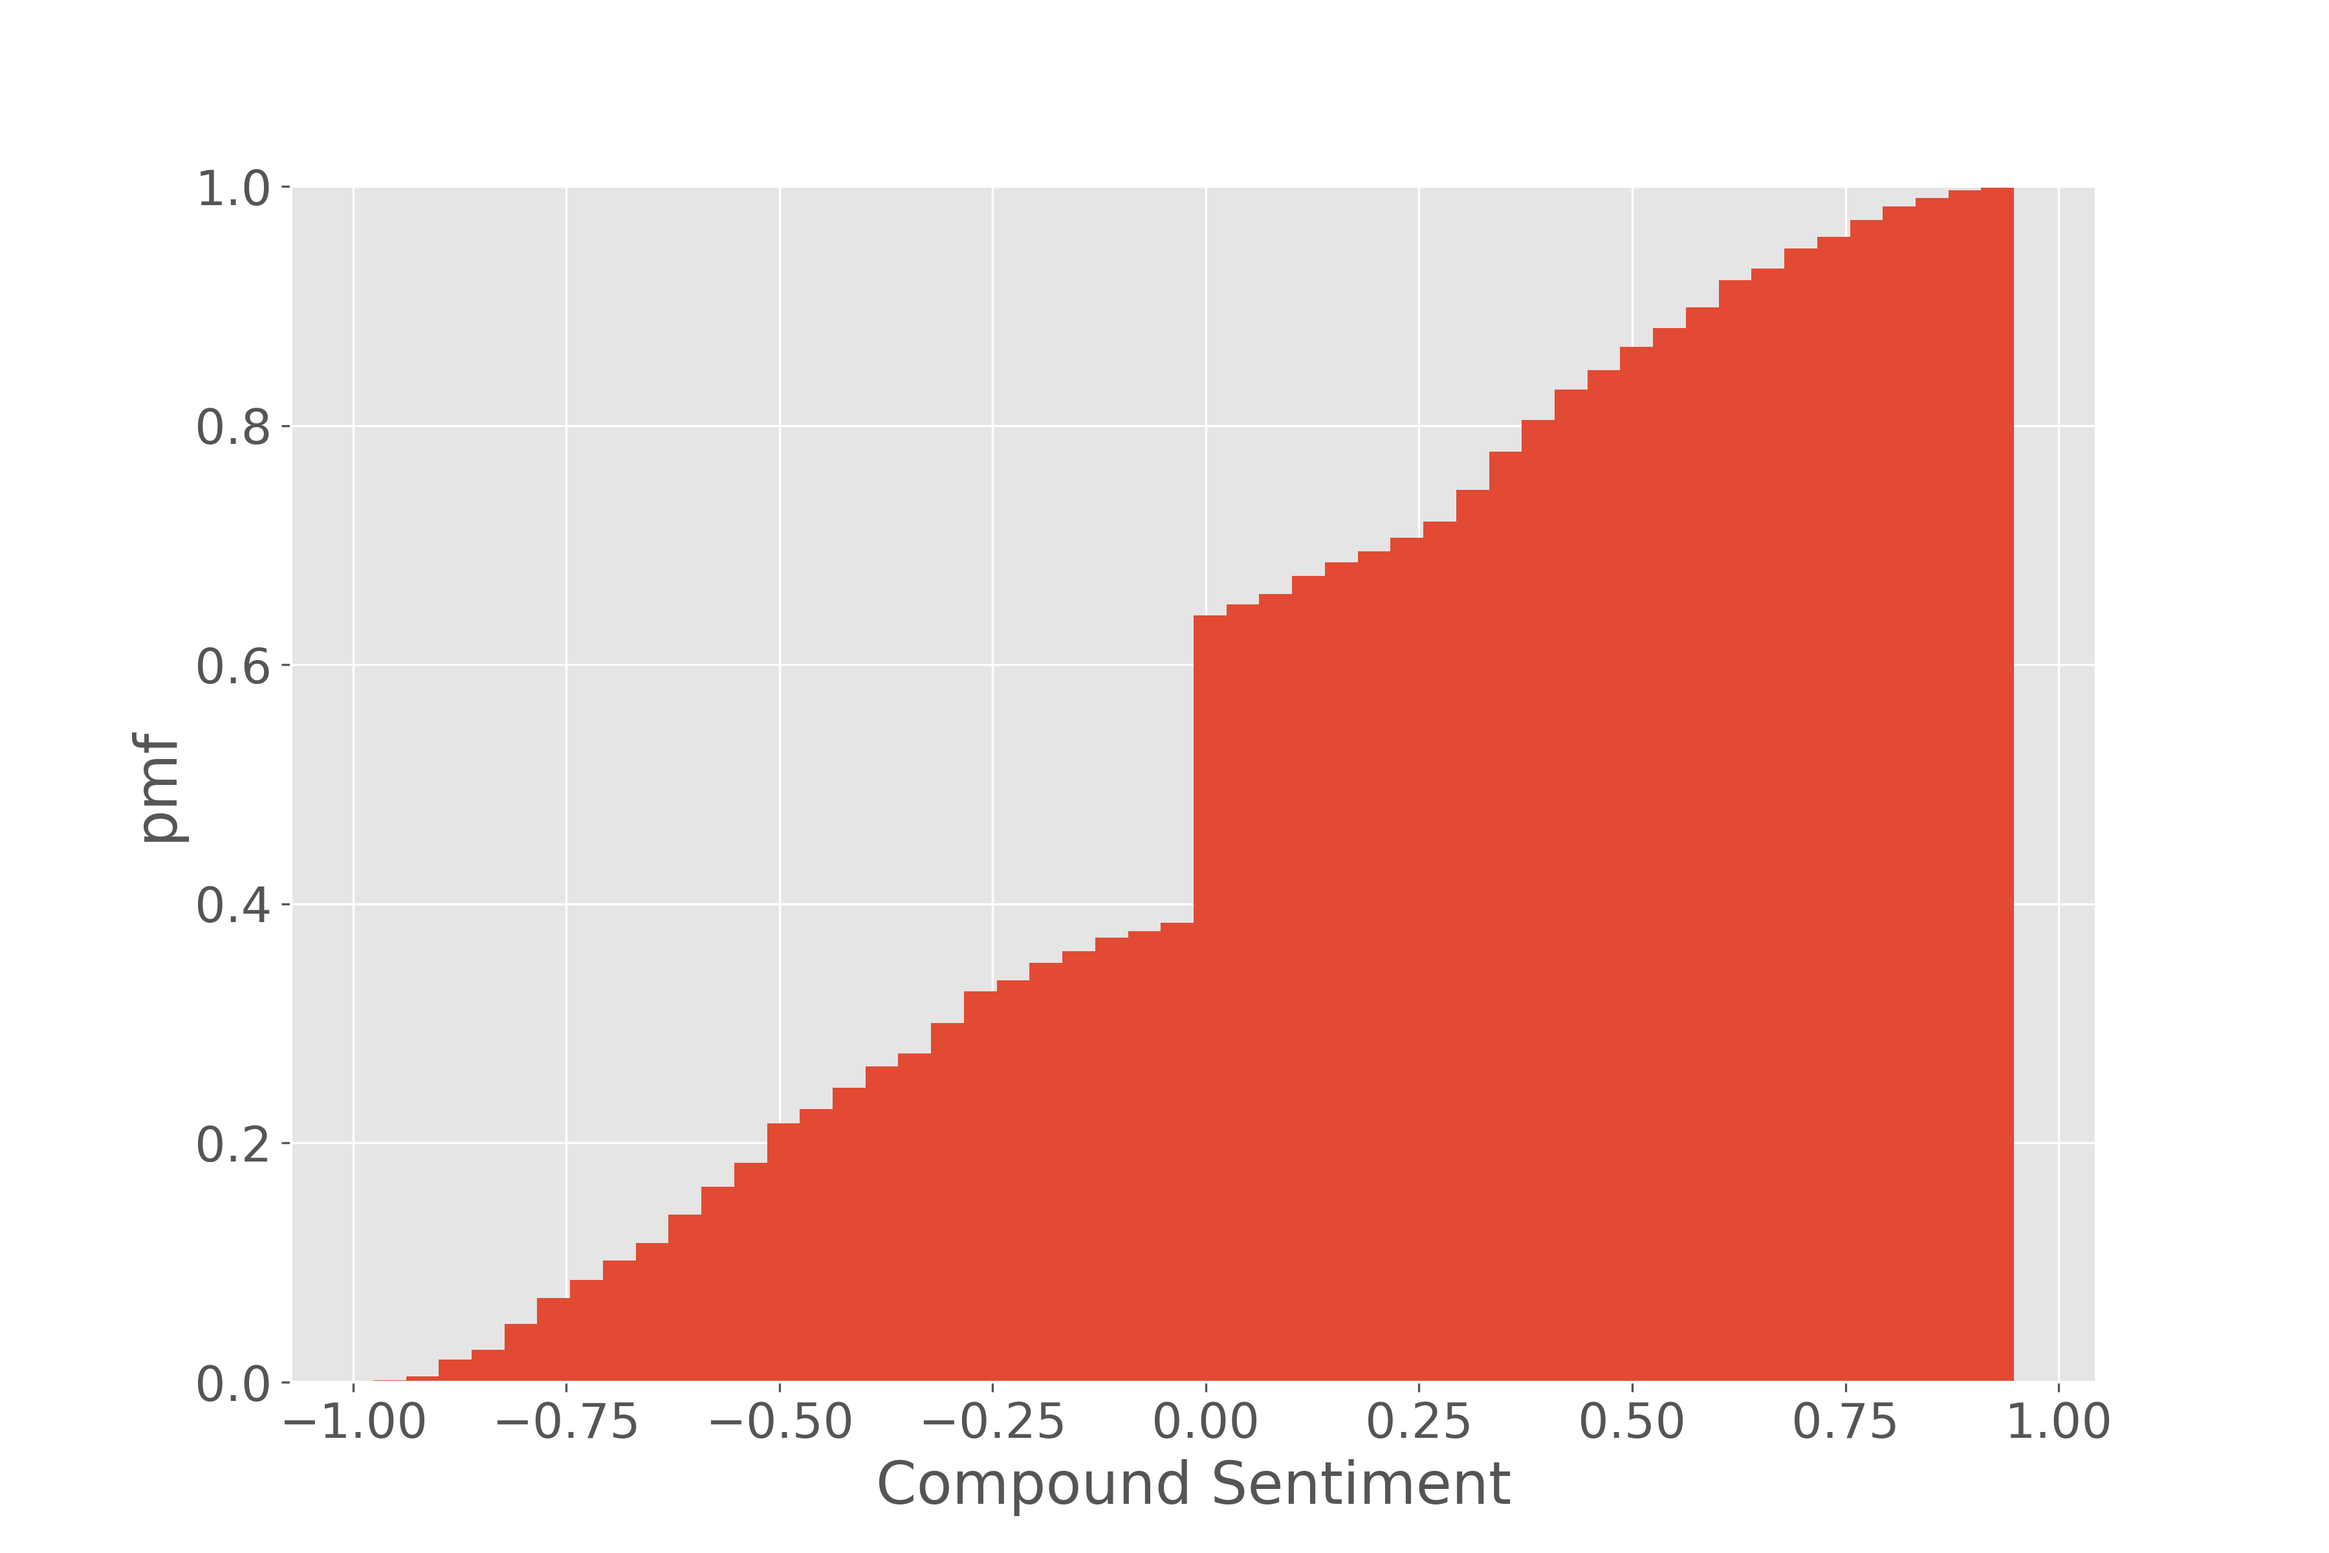
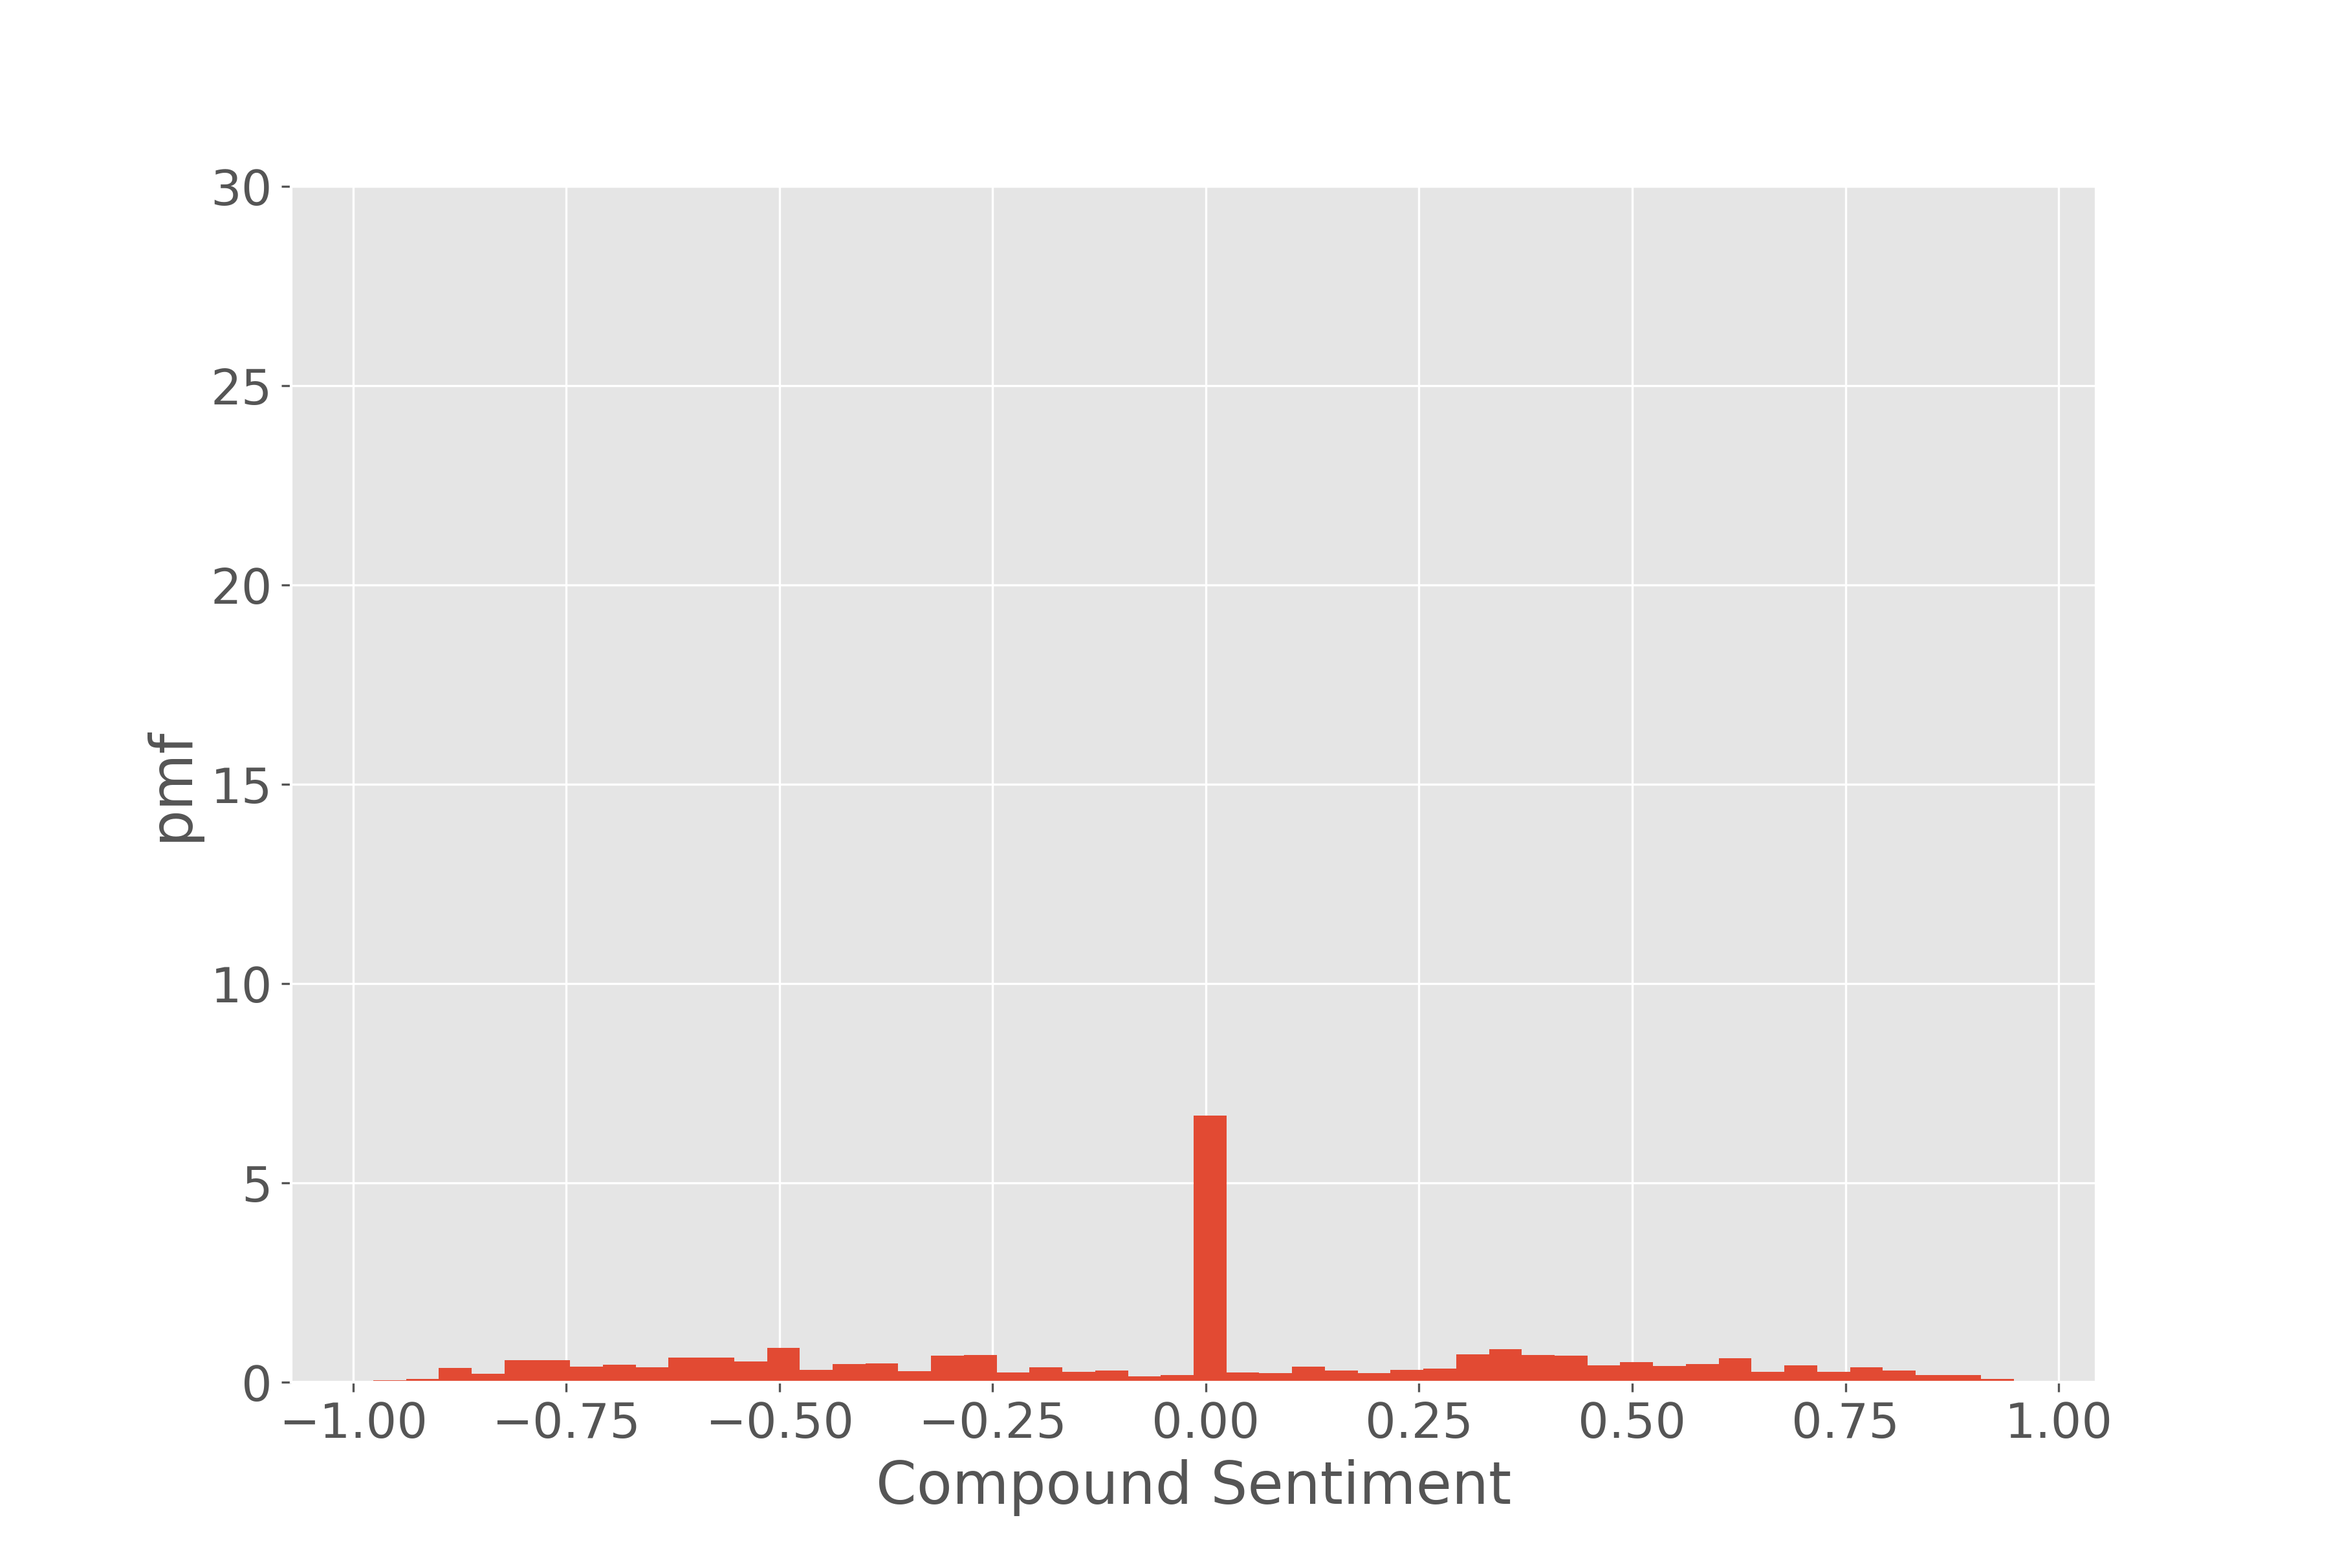
lots of pics

diff --git a/src/co_data.py b/src/co_data.py
@@ -3,6 +3,8 @@ import numpy as np
 import os
 import re
 import matplotlib.pyplot as plt
+plt.style.use('ggplot')
+plt.rcParams.update({'font.size': 18})
 from wordcloud import WordCloud
 from sklearn.feature_extraction.text import CountVectorizer
 from sklearn.feature_extraction.text import TfidfTransformer
@@ -107,8 +109,7 @@ class PlotFormatter():
     def __init__(self, subplots=1, figsize=(12,8), style='ggplot'):
         self.fig, self.ax = plt.subplots(subplots,figsize=figsize)
         self.num_subplots = subplots
-        plt.style.use(style)
-        plt.rcParams.update({'font.size': 18})
+        
 
     def make_barchart(self, subplot_number, x_label_list, y_data, y_label, title, normalize=True):
         x_vals = np.arange(len(x_label_list))
@@ -136,13 +137,15 @@ class PlotFormatter():
                 label.set_rotation(45)
                 label.set_ha('right')
     
-    def make_hist(self, subplot_number, y_data, x_label, num_bins=50, normalize=True, cumulative=True):
+    def make_hist(self, line_name, y_data, x_label, subplot_number=0, num_bins=50, normalize=True, cumulative=False):
         # x_vals = np.linspace(x_start_stop[0], x_start_stop[1], 1000)
 
         if self.num_subplots == 1:
-            self.ax.hist(y_data, bins = num_bins, density=normalize, cumulative=cumulative)
+            self.ax.hist(y_data, bins = num_bins, density=normalize, cumulative=cumulative, label=line_name)
             self.ax.set_ylabel('pmf' if normalize else 'count')
-            self.ax.set_ylim((0, 1) if cumulative else (0,30))
+            # self.ax.set_ylim((0, 1) if cumulative else (0,30))
+            self.ax.legend()
+            self.ax.set_xlim((-0.2, 0.2))
             self.ax.set_xlabel(x_label)
         else:
             self.ax[subplot_number].hist(y_data, bins = num_bins, density=normalize, cumulative=cumulative)
@@ -168,6 +171,39 @@ def tweet_col_to_vader_df(tweet_col):
         clean_df[key] = [analyzer.polarity_scores(tweet)[key] for tweet in clean_df['tweet']]
     return clean_df
     
+def bootstrap(x, resamples=1000):
+    """Draw bootstrap resamples from the array x.
+
+    Parameters
+    ----------
+    x: np.array, shape (n, )
+      The data to draw the bootstrap samples from.
+    
+    resamples: int
+      The number of bootstrap samples to draw from x.
+    
+    Returns
+    -------
+    bootstrap_samples: np.array, shape (resamples, n)
+      The bootsrap resamples from x.
+    """
+    bootstrap_samples = []
+
+    for _ in range(resamples):
+        bootstrap = np.random.choice(x, size=len(x), replace=True)
+        bootstrap_samples.append(bootstrap)
+
+    return bootstrap_samples
+
+def bootstrap_ci(sample, stat_function=np.mean, resamples=1000, ci=95):
+
+    bootstrap_samples = bootstrap(sample,resamples=resamples)
+
+    bootstrap_sample_means = list(map(stat_function, bootstrap_samples))
+
+    low_bound = np.percentile(bootstrap_sample_means, (100-ci)/2)
+    upper_bound = np.percentile(bootstrap_sample_means, (100+ci)/2)
+    ci_bounds = [low_bound, upper_bound]
 
 if __name__ == '__main__':
     '''
@@ -196,41 +232,50 @@ if __name__ == '__main__':
     json_list = ['1_agg.json','2_agg.json','3_agg.json','4_agg.json','5_agg.json']
     
     select_state = 'co'
-    select_treatment = 4
+    select_treatment = 0
 
     treatment_dict = {0: '@joebiden', 1: '@joebiden & #covid19', 2: '#covid19',
                       3: '@realdonaldtrump & #covid19', 4: '@realdonaldtrump'}
 
-    # for select_treatment in range(len(json_list)):
-    path_to_json = f'../data/CO/{json_list[select_treatment]}'
     pipeline = PipelineToPandas()
-    co_3_df = pipeline.spark_df_to_pandas(path_to_json,select_state,select_treatment+1)
-
-    # Clean twitter text
-    text_cleaner = TextCleaner()
-    clean_tweet_col = co_3_df['tweet_text'].apply(lambda x: text_cleaner.clean_tweets(x,exclude_stopwords=False))
-    tweet_emoji = text_cleaner.emoji_list
-
-    # # generate wordcloud
-    clean_txt_string = clean_tweet_col.str.cat(sep=' ')
-
-    # bar plots of freq words
-
-    clean_word_list = clean_txt_string.split()
-
-    keys, vals = to_count_list(clean_word_list)
-
-    plotter = PlotFormatter()
-    # plotter.make_barchart(0,keys[:25],vals[:25],'Relative Frequency (a.u.)',f'Top 25 Words for {treatment_dict[select_treatment]}')
-    # plotter.save_fig(f'{select_state}_{select_treatment}_top25words.png')
-
-    # VADER
     analyzer = SentimentIntensityAnalyzer()
 
-    clean_df = tweet_col_to_vader_df(clean_tweet_col)
-    plotter.make_hist(0,clean_df['compound'],'Compound Sentiment',normalize=True)
-    plotter.save_fig(f'{select_state}_{select_treatment}_compound_clean_sent.png')
+    plotter = PlotFormatter(subplots=1)
+
+    for select_treatment in range(len(json_list)):
+        path_to_json = f'../data/CO/{json_list[select_treatment]}'
+        
+        co_3_df = pipeline.spark_df_to_pandas(path_to_json,select_state,select_treatment+1)
+
+        # Clean twitter text
+        text_cleaner = TextCleaner()
+        clean_tweet_col = co_3_df['tweet_text'].apply(lambda x: text_cleaner.clean_tweets(x,exclude_stopwords=False))
+        tweet_emoji = text_cleaner.emoji_list
+
+        # # generate wordcloud
+        clean_txt_string = clean_tweet_col.str.cat(sep=' ')
+
+        # bar plots of freq words
+
+        clean_word_list = clean_txt_string.split()
+
+        keys, vals = to_count_list(clean_word_list)
+
+        
+        # plotter.make_barchart(0,keys[:25],vals[:25],'Relative Frequency (a.u.)',f'Top 25 Words for {treatment_dict[select_treatment]}')
+        # plotter.save_fig(f'{select_state}_{select_treatment}_top25words.png')
+
+        # VADER
+
+        clean_df = tweet_col_to_vader_df(co_3_df['tweet_text'])
+
+        bootstrap_samples_positive_clean = bootstrap(clean_df['pos'])
+
+        bootstrap_sample_means = list(map(np.mean, bootstrap_samples_positive_clean))
+
+        plotter.make_hist(f'{select_state}_{select_treatment}', bootstrap_sample_means,' Mean Positive Sentiment',normalize=False)
+    plotter.save_fig(f'{select_state}_all_mean_positive_dirty_sent.png')
     
-    emoji_df = tweet_col_to_vader_df(tweet_emoji)
-    plotter.make_hist(0,emoji_df['compound'],'Compound Sentiment',normalize=True)
-    plotter.save_fig(f'{select_state}_{select_treatment}_compound_emoji_sent.png')
+    # emoji_df = tweet_col_to_vader_df(tweet_emoji)
+    # plotter.make_hist(0,emoji_df['compound'],'Compound Sentiment',normalize=True)
+    # plotter.save_fig(f'{select_state}_{select_treatment}_compound_emoji_sent.png')

diff --git a/src/mongo_importer.py b/src/mongo_importer.py
@@ -31,7 +31,7 @@ count = 0
 for tweet in tweets_w_place:
     count += 1
     if count == 1:
-        pprint.pprint(tweet['user'])
+        pprint.pprint(tweet)
 
 print(tweets_w_place.count())
 

diff --git a/README.md b/README.md
@@ -53,6 +53,122 @@ I wanted to simulate a data science project from conceptualization to data wrang
 
 The topic I chose to investigate is in the back of everyone's mind at the moment; the COVID-19 pandemic. Being a national emergency, I figured people on twitter would express emotion towards their political leaders concerning the topic. So, tweets were collected using Twitter's free API and the [Tweepy](http://www.tweepy.org/) python library in three distinct geopolitical regions in the contigous United States: Oregon, Colorado, and Arkansas. These regions were chosen via their representation in the U.S. Senate; Oregon - Liberal, Colorado - Bipartisan, and Arkansas - Conservative. Keeping with the political focus, tweets were streamed with the following keyword combinations:
 
+1. @joebiden
+2. @joebiden & #COVID19
+3. #COVID19
+4. @realdonaldtrump & #COVID19
+5. @realdonaldtrump
+
+For each of these keyword combinations, ~8,000 tweets were collected in a 6 day period from 3/31/2020 to 4/6/2020 for each region; totaling ~ 120,000 tweets. The tweets were stored in their natural, unstructured state and aggregated. Tweets are naturally structured as nested json files with many attributes. Here's an example of a relatively short tweet:
+
+```python
+    {'contributors': None,
+    'coordinates': None,
+    'created_at': 'Wed Apr 01 20:15:11 +0000 2020',
+    'display_text_range': [25, 90],
+    'entities': {'hashtags': [],
+                'symbols': [],
+                'urls': [],
+                'user_mentions': [{'id': 1917731,
+                                    'id_str': '1917731',
+                                    'indices': [0, 8],
+                                    'name': 'The Hill',
+                                    'screen_name': 'thehill'},
+                                    {'id': 471672239,
+                                    'id_str': '471672239',
+                                    'indices': [9, 24],
+                                    'name': 'Kellyanne Conway',
+                                    'screen_name': 'KellyannePolls'}]},
+    'favorite_count': 0,
+    'favorited': False,
+    'filter_level': 'low',
+    'geo': None,
+    'id': 1245444620122816512,
+    'id_str': '1245444620122816512',
+    'in_reply_to_screen_name': 'thehill',
+    'in_reply_to_status_id': 1245441154721644549,
+    'in_reply_to_status_id_str': '1245441154721644549',
+    'in_reply_to_user_id': 1917731,
+    'in_reply_to_user_id_str': '1917731',
+    'is_quote_status': False,
+    'lang': 'en',
+    'place': {'attributes': {},
+            'bounding_box': {'coordinates': [[[-94.61771, 33.004106],
+                                                [-94.61771, 36.499767],
+                                                [-89.644838, 36.499767],
+                                                [-89.644838, 33.004106]]],
+                                'type': 'Polygon'},
+            'country': 'United States',
+            'country_code': 'US',
+            'full_name': 'Arkansas, USA',
+            'id': 'e8ad2641c1cb666c',
+            'name': 'Arkansas',
+            'place_type': 'admin',
+            'url': 'https://api.twitter.com/1.1/geo/id/e8ad2641c1cb666c.json'},
+    'quote_count': 0,
+    'reply_count': 0,
+    'retweet_count': 0,
+    'retweeted': False,
+    'source': '<a href="http://twitter.com/download/android" '
+            'rel="nofollow">Twitter for Android</a>',
+    'text': "@thehill @KellyannePolls Just go away won't you Kelly and it would "
+            'be a service to America',
+    'timestamp_ms': '1585772111336',
+    'truncated': False,
+    'user': {'contributors_enabled': False,
+            'created_at': 'Fri Dec 26 16:42:35 +0000 2014',
+            'default_profile': True,
+            'default_profile_image': False,
+            'description': 'arkansas democrat',
+            'favourites_count': 4242,
+            'follow_request_sent': None,
+            'followers_count': 20,
+            'following': None,
+            'friends_count': 129,
+            'geo_enabled': True,
+            'id': 2944125506,
+            'id_str': '2944125506',
+            'is_translator': False,
+            'lang': None,
+            'listed_count': 0,
+            'location': 'Arkansas, USA',
+            'name': 'Susan Martin',
+            'notifications': None,
+            'profile_background_color': 'C0DEED',
+            'profile_background_image_url': 'http://abs.twimg.com/images/themes/theme1/bg.png',
+            'profile_background_image_url_https': 'https://abs.twimg.com/images/themes/theme1/bg.png',
+            'profile_background_tile': False,
+            'profile_image_url': 'http://pbs.twimg.com/profile_images/1101888795379728384/GEKIK6sh_normal.jpg',
+            'profile_image_url_https': 'https://pbs.twimg.com/profile_images/1101888795379728384/GEKIK6sh_normal.jpg',
+            'profile_link_color': '1DA1F2',
+            'profile_sidebar_border_color': 'C0DEED',
+            'profile_sidebar_fill_color': 'DDEEF6',
+            'profile_text_color': '333333',
+            'profile_use_background_image': True,
+            'protected': False,
+            'screen_name': 'suem4444',
+            'statuses_count': 2244,
+            'time_zone': None,
+            'translator_type': 'none',
+            'url': None,
+            'utc_offset': None,
+            'verified': False}}
+```
+
+From s3, the tweets were queried for select fields and stored in local a pandas DataFrame prior to processed. The structure of the flattened pandas DataFrame is shown below:
+
+<p align="center">
+    <img src="images/pandasdf.png" width='400'/>
+</p>
+
+Most of the fields mentioned above were gathered for future analysis; fields relevant to analysis sentiment are **tweet_text, state, and search_term_key,** all of which are string datatype.
+
+## Data Pipeline
+
+<p align="center">
+    <img src="images/tweet_path.png" width='500'/>
+</p>
+
 
 <!-- <p align="center">
     <img src="images/joe.png" width='300' />
